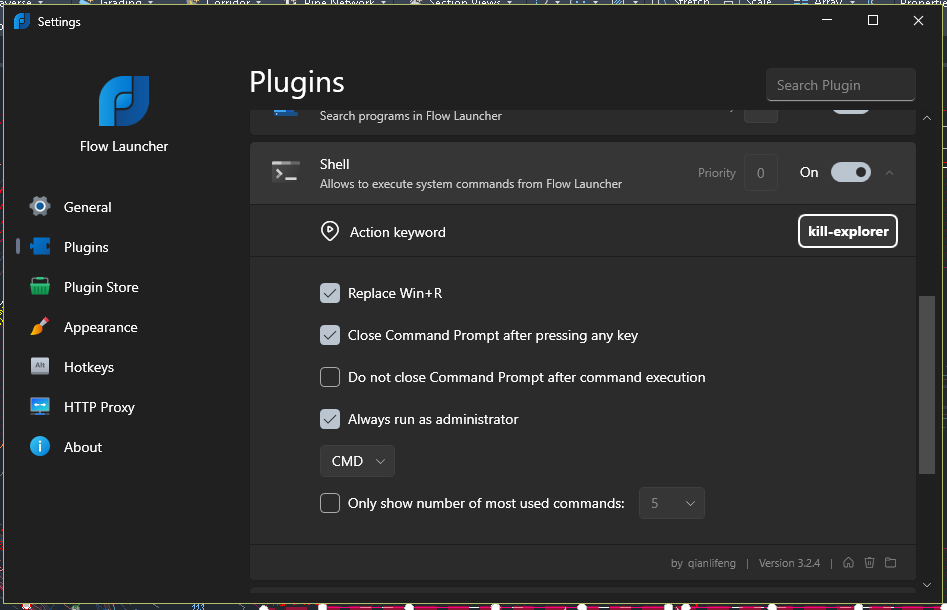
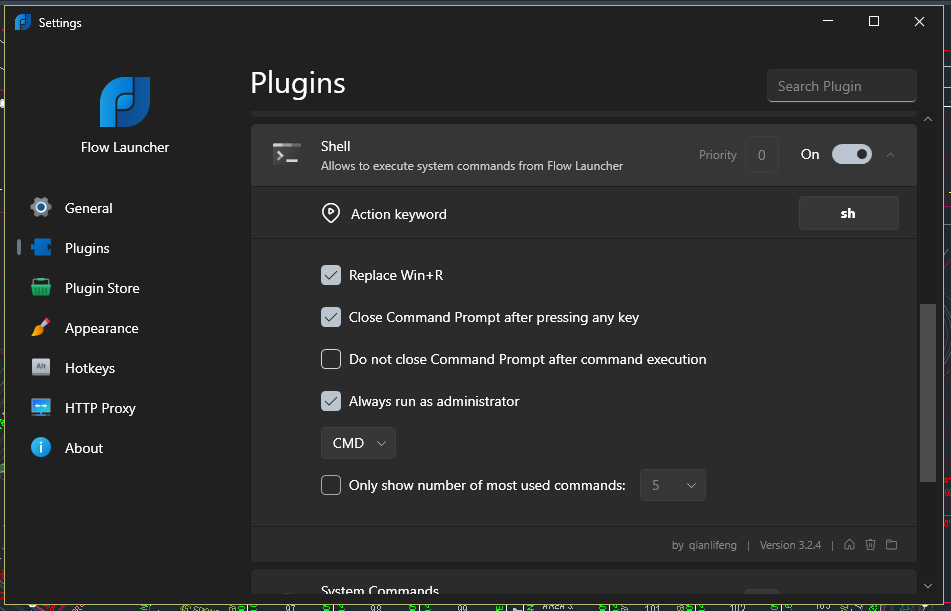
updated methods to kill and start explorer.exe

diff --git a/kill_explorer_directions/kill_or_launch_explorer_command.md b/kill_explorer_directions/kill_or_launch_explorer_command.md
@@ -1,0 +1,5 @@
+# Kill explorer.exe with command prompt
+taskkill /IM explorer.exe /F
+
+# Launch exporer.exe with command prompt
+C:\Windows\explorer.exe
